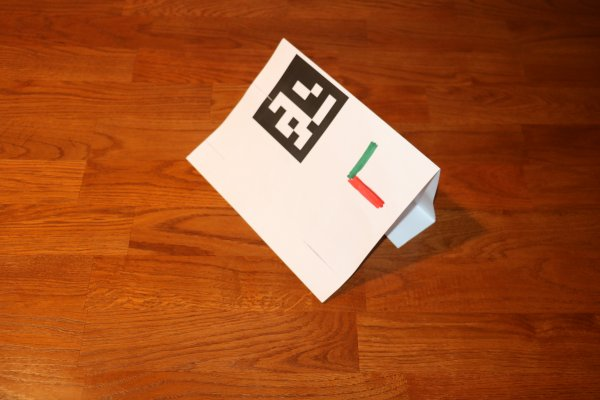
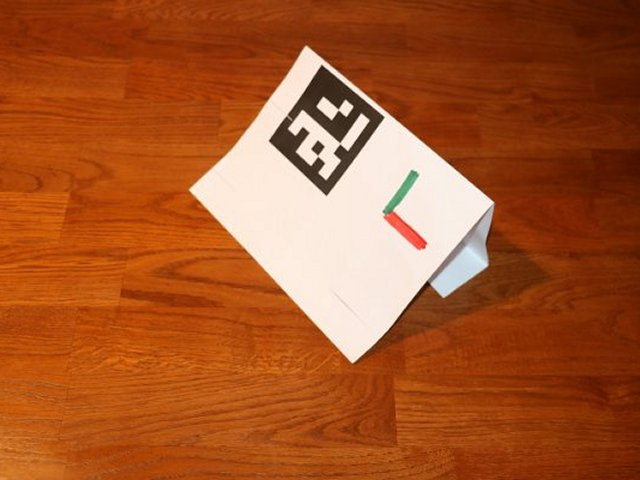
1

diff --git a/ex12_AR.py b/ex12_AR.py
@@ -7,13 +7,12 @@ from OpenGL.GL import *
 import tools_aruco
 import tools_image
 # ----------------------------------------------------------------------------------------------------------------------
-image_shape = 400,600
-fx,fy = 1090, 1090
-principalX, principalY = fx/2, fy/2
-cameraMatrix = numpy.array([[fx,0,principalX],[0,fy,principalY],[0,0,1]])
-dist = numpy.zeros((1,5))
+image_shape = 480,640
+fx,fy = 2*640, 2*480
+cameraMatrix = numpy.array([[fx,0,fx/2],[0,fy,fy/2],[0,0,1]])
+dist = numpy.zeros(4)
 near = 1
-far = 1050
+far = 1000
 marker_length = 0.1
 # ----------------------------------------------------------------------------------------------------------------------
 frame = []
@@ -21,7 +20,7 @@ frame = []
 lightZeroPosition = [10.0, 10.0, 10.0, 1.0]
 lightZeroColor = [2.5, 2.5, 2.5, 1]
 # ----------------------------------------------------------------------------------------------------------------------
-filename_in = 'images/ex_aruco/01.jpg'
+filename_in = 'images/ex_aruco/02.jpg'
 filename_out = 'images/output/ar.png'
 USE_CAMERA = False
 # ----------------------------------------------------------------------------------------------------------------------
@@ -60,10 +59,10 @@ def draw():
     glMatrixMode(GL_PROJECTION)
     glLoadIdentity()
 
-    left = -principalX / fx
-    right = (image_shape[1] - principalX) / fx
-    bottom = (principalY - image_shape[0]) / fy
-    top = principalY / fy
+    left = -0.5
+    right = (image_shape[1] - fx/2) / fx
+    bottom = (fy/2 - image_shape[0]) / fy
+    top = 0.5
     glFrustum(left, right, bottom, top,near, far)
 
     #a = (GLfloat * 16)()
@@ -72,7 +71,7 @@ def draw():
 
     if numpy.count_nonzero(rvec)>0:
         glMatrixMode(GL_MODELVIEW)
-        glLoadMatrixf(tools_aruco.compose_GL_MAT(rvec, tvec))
+        glLoadMatrixf(tools_aruco.compose_GL_MAT(rvec, tvec,flip=True))
         tools_aruco.draw_native_axis(marker_length/2)
 
         glPushMatrix()

diff --git a/ex04_landmarks.py b/ex04_landmarks.py
@@ -5,6 +5,7 @@ import tools_IO
 import tools_image
 import tools_GL3D
 import tools_aruco
+import pyrr
 # ---------------------------------------------------------------------------------------------------------------------
 import time
 import detector_landmarks
@@ -86,19 +87,24 @@ if __name__ == '__main__':
     filename_actor = list_filenames[0]
     image_actor = cv2.imread(folder_in + filename_actor)
     image_actor = tools_image.smart_resize(image_actor, camera_H, camera_W)
-    demo_live()
+    #demo_live()
 
-    fx, fy = 1090, 1090
-    principalX, principalY = fx / 2, fy / 2
-    dist = numpy.zeros((1, 5))
-    cameraMatrix = numpy.array([[fx, 0, principalX], [0, fy, principalY], [0, 0, 1]])
-    marker_length = 0.1
-    frame = cv2.imread('images/ex_aruco/01.jpg')
-    frame, rvec, tvec = tools_aruco.detect_marker_and_draw_axes(frame, marker_length, cameraMatrix, dist)
-    R = tools_GL3D.render_GL3D(filename_obj='./images/ex_GL/box.obj',W=camera_W,H=camera_H,)
-    image = R.get_image(rvec=rvec,tvec=tvec)
-    cv2.imwrite('./images/output/res.png',image)
 
+
+    frame = cv2.imread('images/ex_aruco/02.jpg')
+    R = tools_GL3D.render_GL3D(filename_obj='./images/ex_GL/box.obj',W=camera_W,H=camera_H)
+    #frame, rvec, tvec = tools_aruco.detect_marker_and_draw_axes(frame, marker_length=0.1, camera_matrix=R.cameraMatrix, dist=numpy.zeros(4))
+
+
+    rvec, tvec = (0,0.8,0),(0,0,+3)
+
+    R.init_mat_projection0()
+    image = R.get_image((0,0,0), tvec)
+    cv2.imwrite('./images/output/res0.png',image)
+
+    R.init_mat_projection()
+    image = R.get_image((0, 0, 0), tvec)
+    cv2.imwrite('./images/output/res.png', image)
 
 
 
